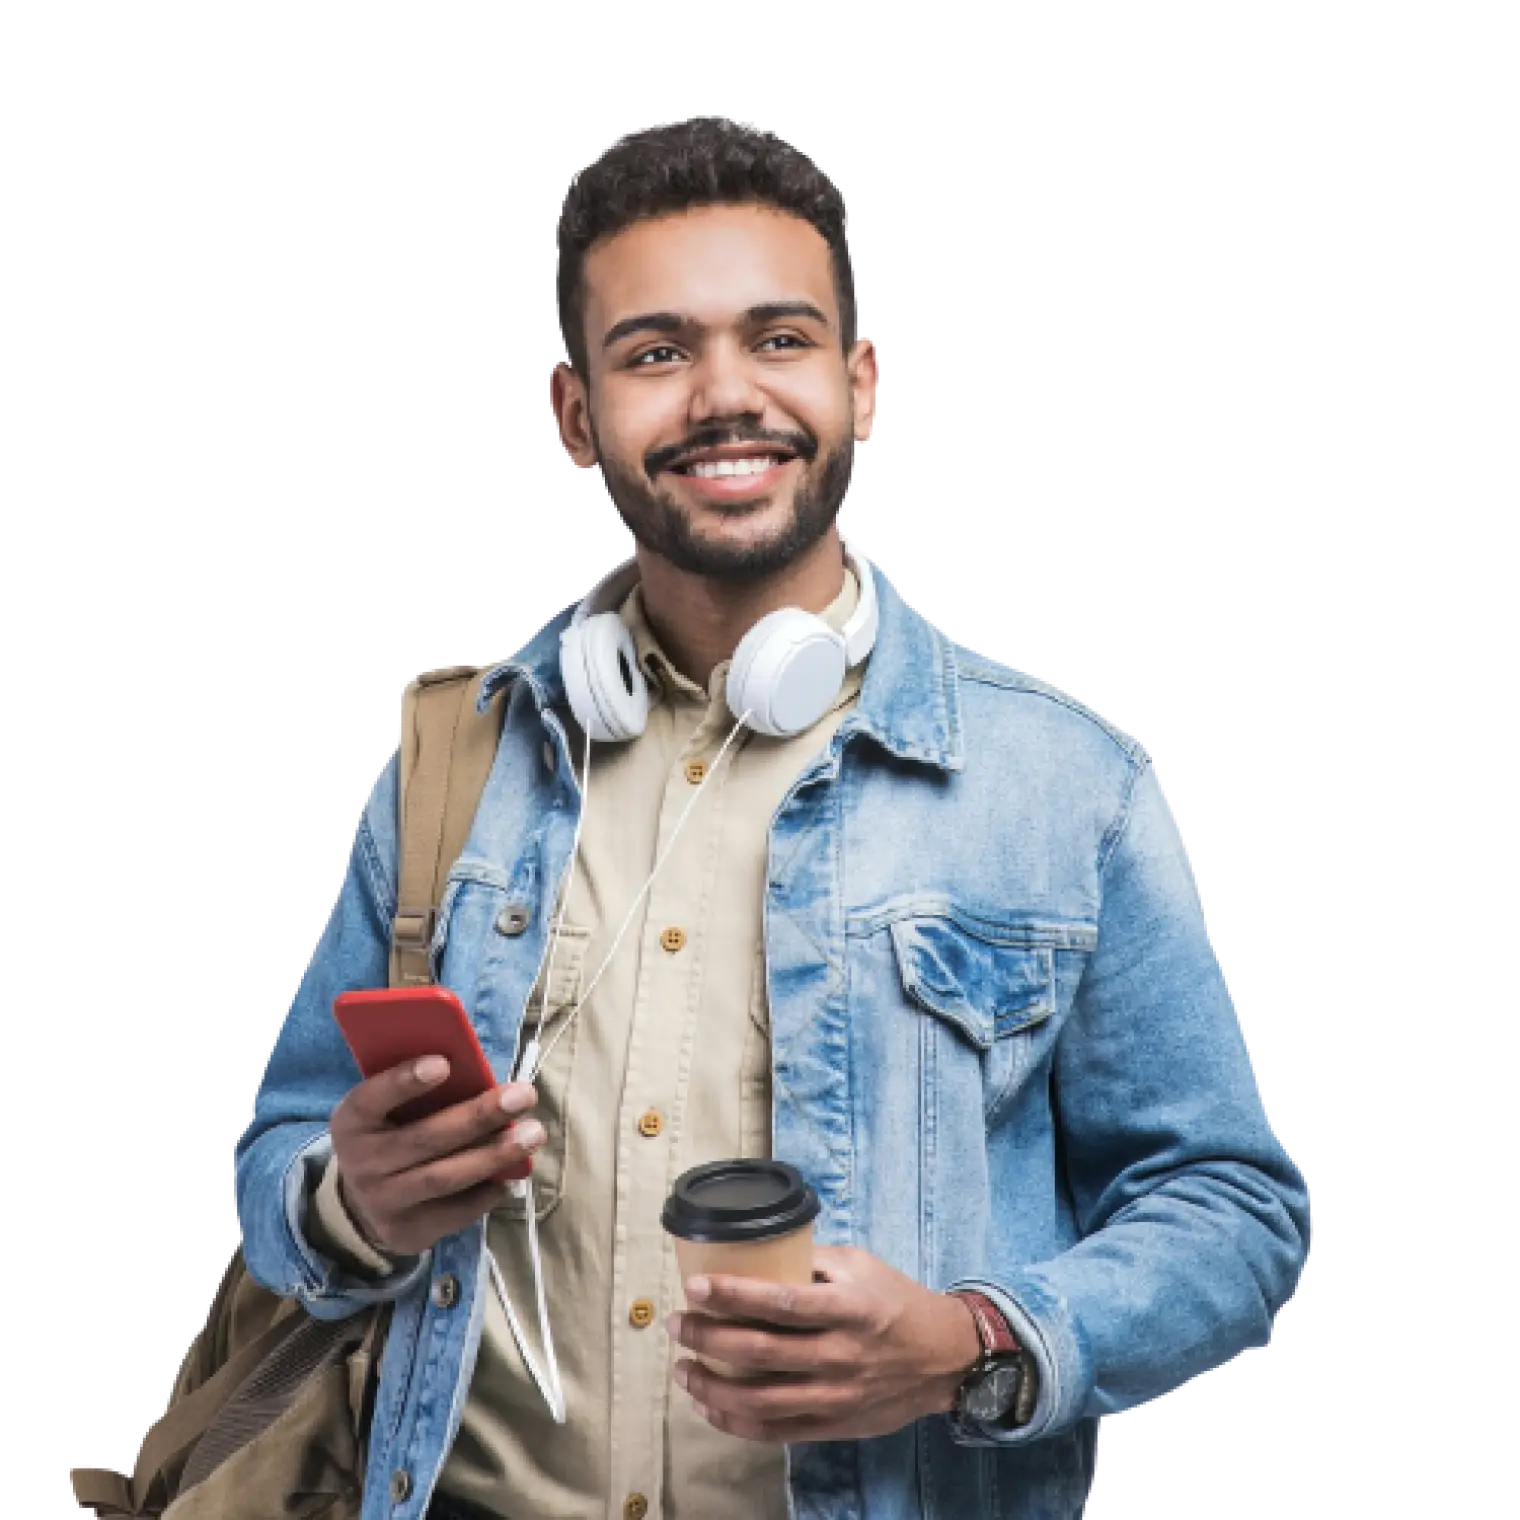
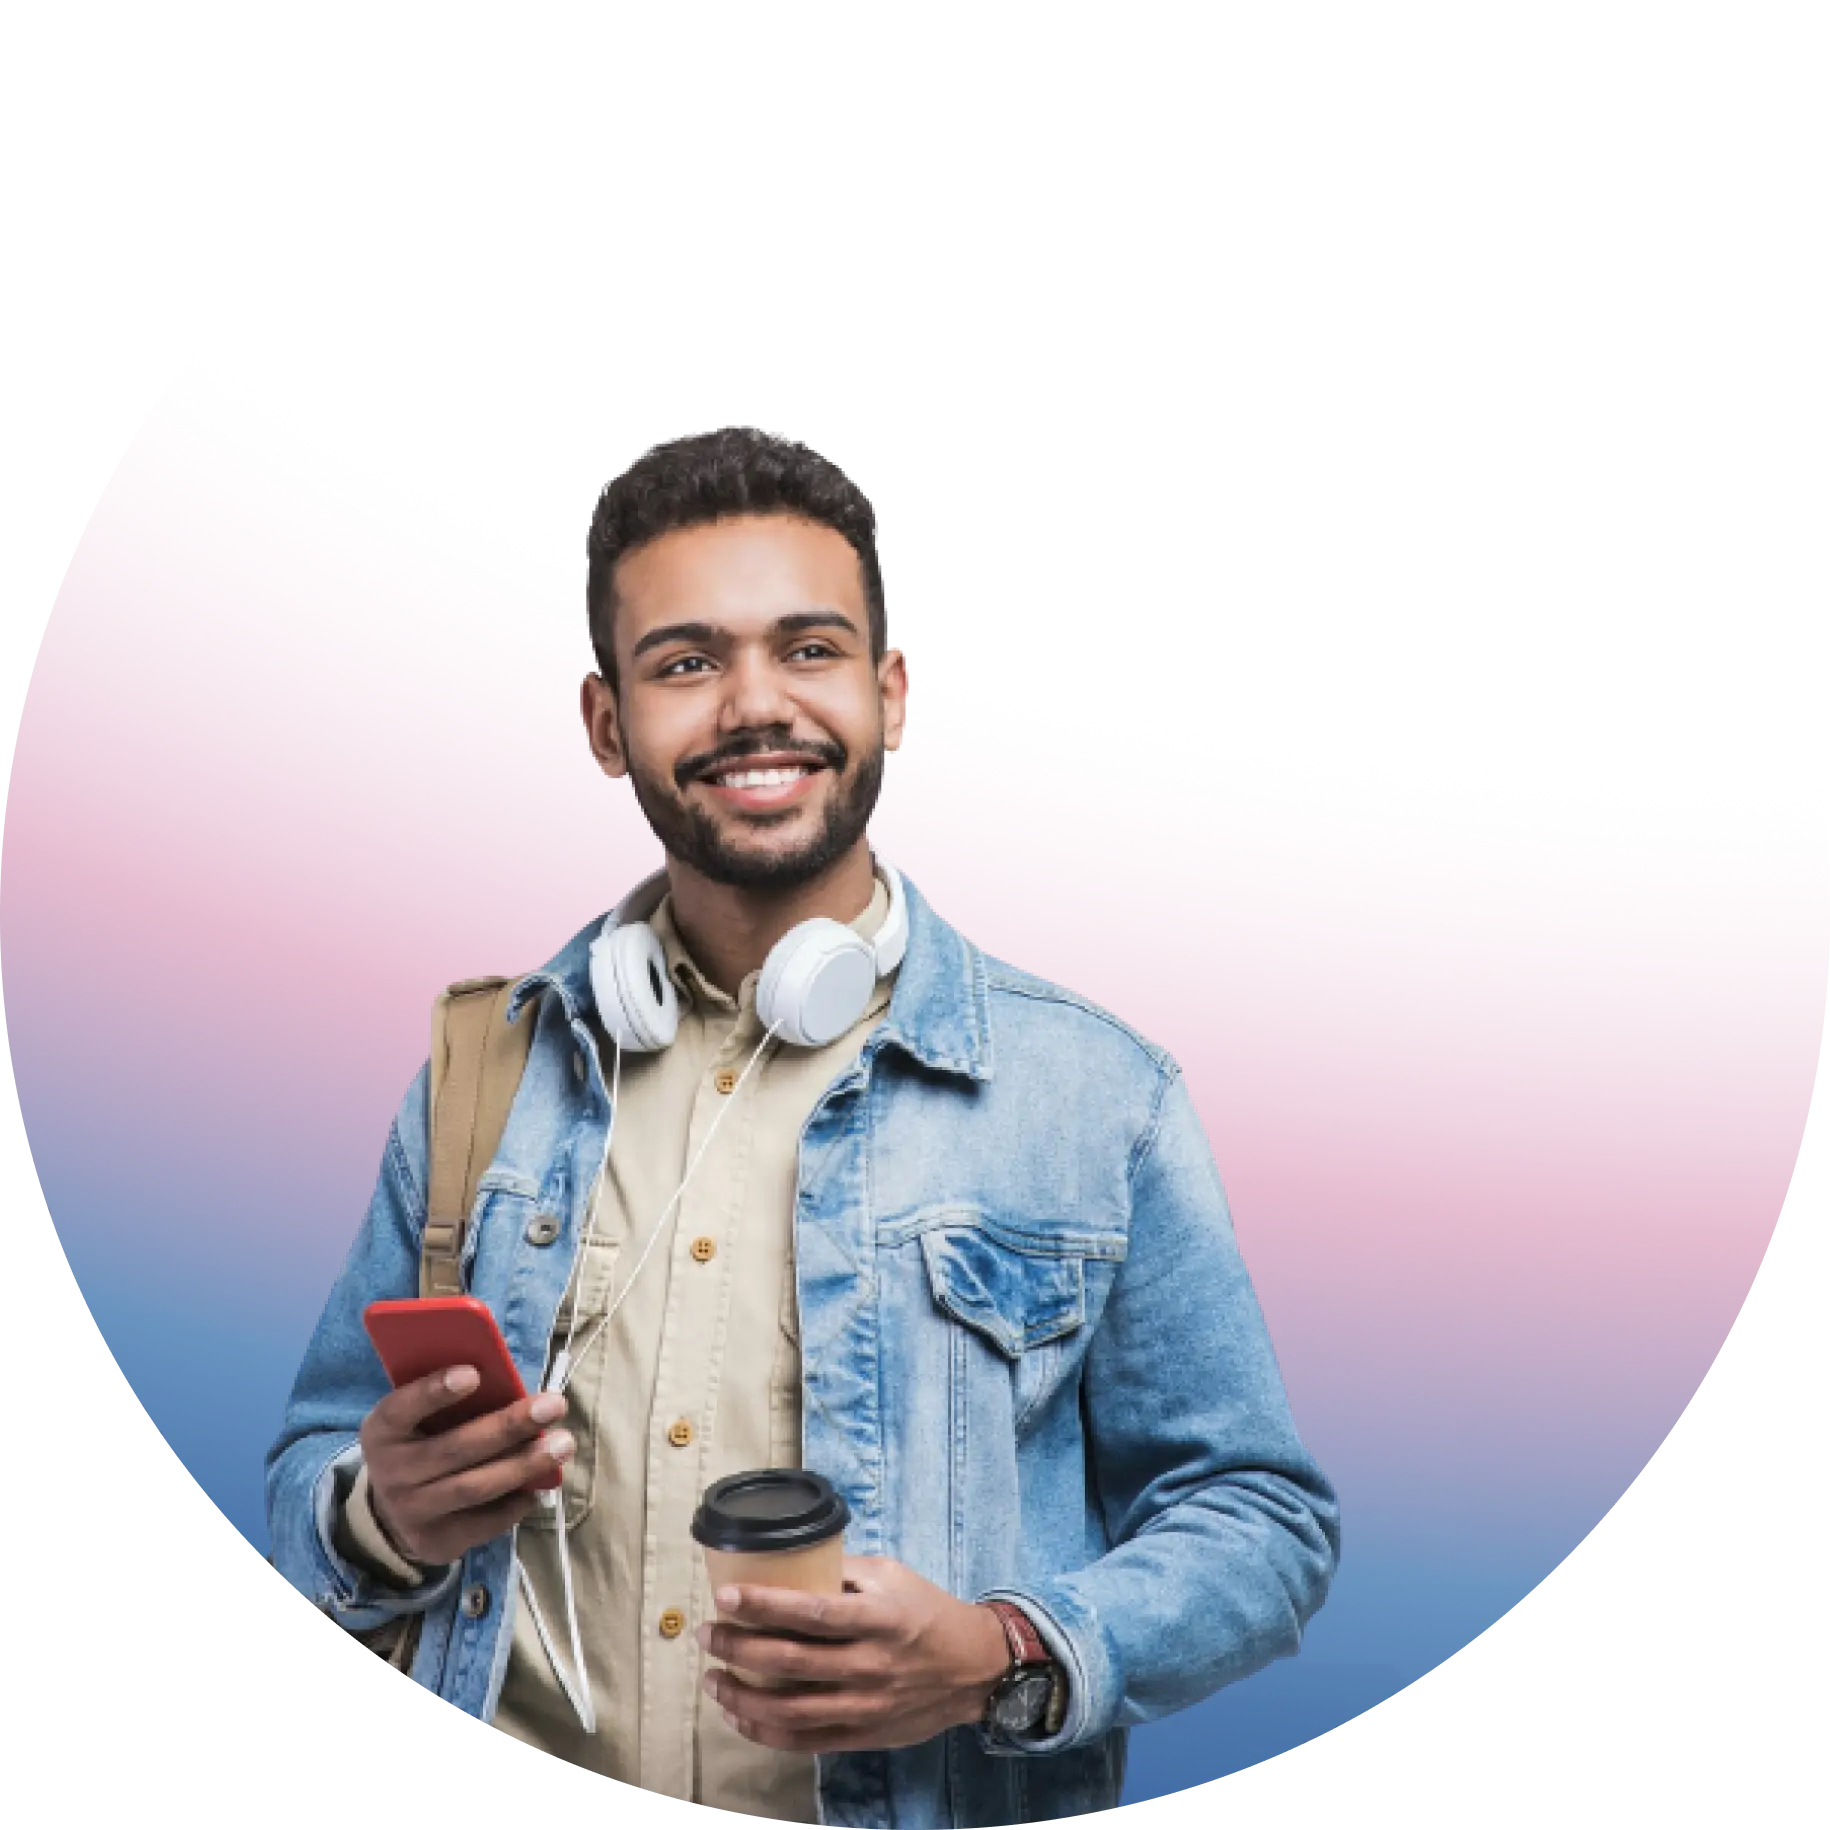
feat: create YourBridge section

diff --git a/src/components/YourBridge/YourBridge.tsx b/src/components/YourBridge/YourBridge.tsx
@@ -1,0 +1,49 @@
+import React from 'react'
+
+import MainContainer from 'components/MainContainer'
+import Image from 'next/image'
+
+import * as S from './YourBridge.styles'
+
+const YourBridge = () => {
+  return (
+    <MainContainer>
+      <S.Wrapper>
+        <div>
+          <S.Title>
+            Somos a sua ponte para a <span>transformação!</span>
+          </S.Title>
+          <S.Paragraph>
+            Acreditamos que a educação é feita para qualquer pessoa, então
+            criamos através do nosso app e plataforma, pontes para uma educação
+            mais inclusiva.{' '}
+          </S.Paragraph>
+        </div>
+        <S.ImgWrapper>
+          <S.Img
+            src="/images/pic-01.webp"
+            width={915}
+            height={915}
+            alt="Um estudante sorrindo"
+          />
+        </S.ImgWrapper>
+        <S.AppStoreButtonsWrapper>
+          <Image
+            src="/images/google.svg"
+            width={176}
+            height={60}
+            alt="Em breve no Google Play"
+          />
+          <Image
+            src="/images/apple.svg"
+            width={176}
+            height={60}
+            alt="Em breve na App Store"
+          />
+        </S.AppStoreButtonsWrapper>
+      </S.Wrapper>
+    </MainContainer>
+  )
+}
+
+export default YourBridge

diff --git a/src/components/YourBridge/YourBridge.test.tsx b/src/components/YourBridge/YourBridge.test.tsx
@@ -1,0 +1,32 @@
+import { screen } from '@testing-library/react'
+import { renderWithTheme } from 'utils/tests/helpers'
+
+import YourBridge from '.'
+
+describe('<YourBridge />', () => {
+  test('should render the section with all its elements', () => {
+    const { container } = renderWithTheme(<YourBridge />)
+
+    expect(
+      screen.getByRole('heading', {
+        name: /somos a sua ponte para a transformação!/i
+      })
+    ).toBeInTheDocument()
+    expect(
+      screen.getByText(
+        /acreditamos que a educação é feita para qualquer pessoa, então criamos através do nosso app e plataforma, pontes para uma educação mais inclusiva\./i
+      )
+    ).toBeInTheDocument()
+    expect(
+      screen.getByRole('img', { name: /em breve no google play/i })
+    ).toBeInTheDocument()
+    expect(
+      screen.getByRole('img', { name: /em breve na app store/i })
+    ).toBeInTheDocument()
+    expect(
+      screen.getByRole('img', { name: /um estudante sorrindo/i })
+    ).toBeInTheDocument()
+
+    expect(container.firstChild).toMatchSnapshot()
+  })
+})

diff --git a/src/components/YourBridge/YourBridge.styles.ts b/src/components/YourBridge/YourBridge.styles.ts
@@ -1,0 +1,45 @@
+import styled, { css } from 'styled-components'
+
+export const Wrapper = styled.section`
+  display: grid;
+  grid-template-columns: 5fr 7fr;
+  margin-top: 11.8rem;
+`
+export const Title = styled.h2`
+  font-size: 7.2rem;
+  font-weight: ${({ theme }) => theme.font.weight.bold};
+  color: ${({ theme }) => theme.colors.typographyColors.black};
+`
+
+export const Paragraph = styled.p`
+  margin-top: 5.1rem;
+  text-align: left;
+  line-height: 1.5;
+  max-width: 46.9rem;
+
+  ${({ theme }) => css`
+    color: ${theme.colors.typographyColors.gray};
+    font-weight: ${theme.font.weight.regular};
+    font-size: ${theme.font.sizes['7']};
+  `};
+`
+
+export const ImgWrapper = styled.div`
+  position: relative;
+  /* position: absolute;
+  top: 0;
+  left: 50px; */
+`
+export const Img = styled.img`
+  position: absolute;
+  /* display: block;
+  max-width: 100%;
+  max-height: 100%; */
+  transform: translateX(8%) translateY(-29%);
+`
+
+export const AppStoreButtonsWrapper = styled.div`
+  margin-top: 8.2rem;
+  display: flex;
+  gap: 24px;
+`

diff --git a/src/components/YourBridge/index.ts b/src/components/YourBridge/index.ts
@@ -1,0 +1,1 @@
+export { default } from './YourBridge'
